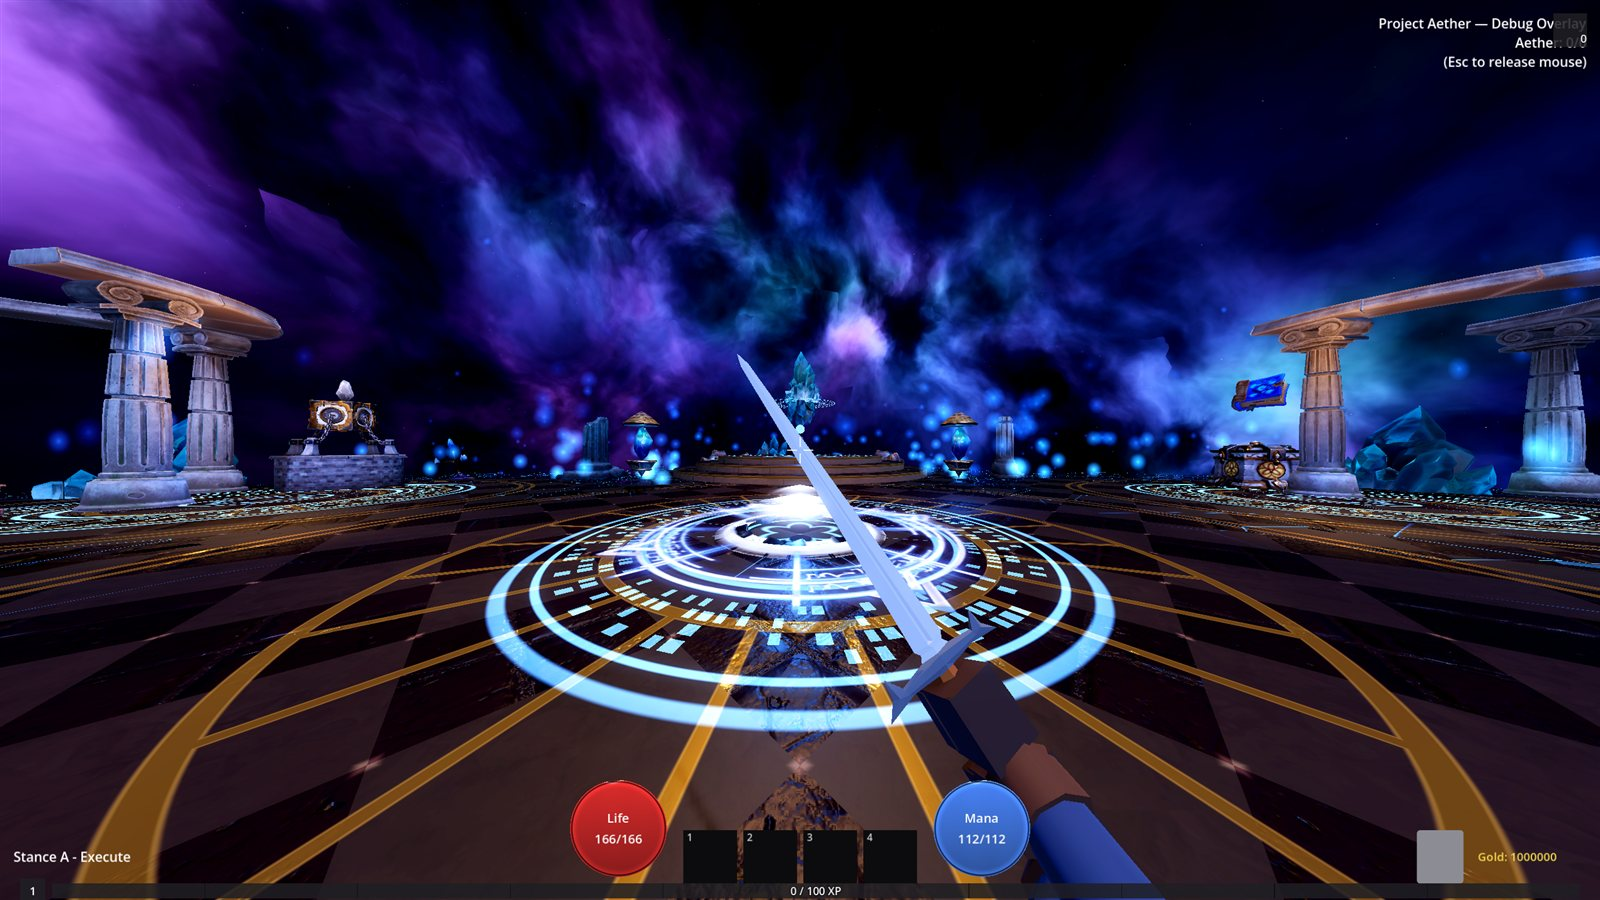
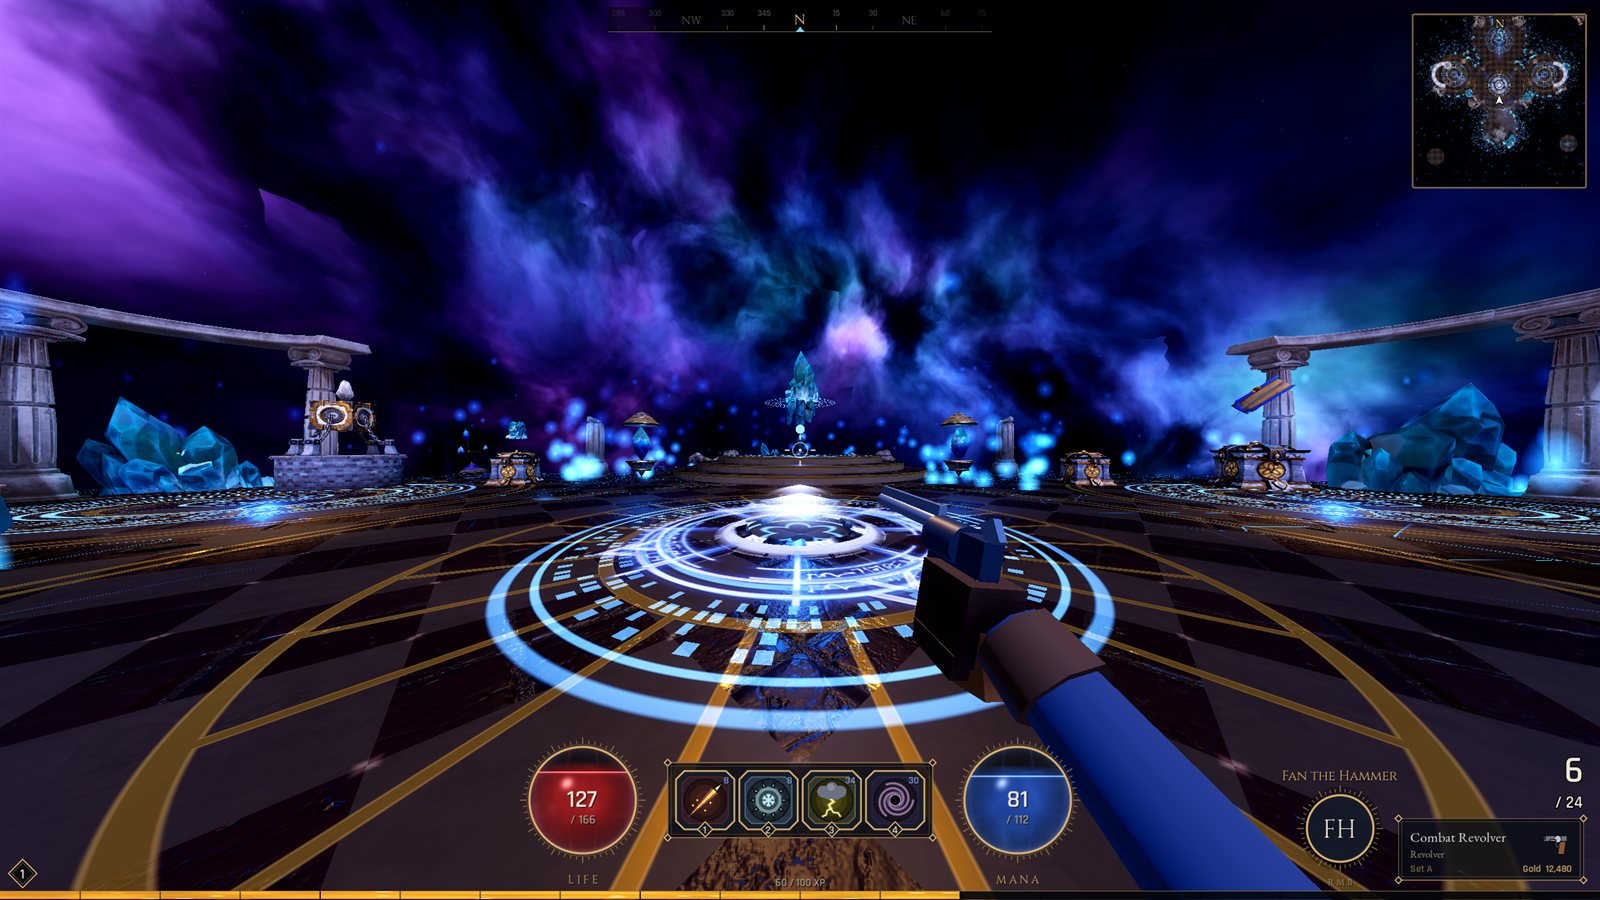
README: new screenshots, macOS download, current features
Six fresh in-engine captures (hub, Ascendant pack, Aurelia, City, forest,
inventory). The capture harnesses hide the debug overlay, take a
CAPTURE_WEAPON env var to hold a different weapon, and keep the player
alive for the rarity view.

diff --git a/README.md b/README.md
@@ -20,18 +20,28 @@ Grab the latest build from the [Releases page](https://github.com/bmdearing/Proj
 |---|---|---|
 | Windows 64-bit | `ProjectAether-<version>-windows.zip` | Unzip, run `ProjectAether.exe` |
 | Linux 64-bit | `ProjectAether-<version>-linux.tar.gz` | `tar -xzf` it, run `./ProjectAether.x86_64` |
+| macOS (Intel, and Apple Silicon) | `ProjectAether-<version>-macos.zip` | Unzip, right-click `Project Aether.app` > Open (the app is not notarized) |
 
-Each build is a single self-contained executable (about 530 MB to download).
+Each build is self-contained, with all assets inside.
+
+## Screenshots
+
+| | |
+|---|---|
+| ![An Ascendant pack in a dungeon Figment](docs/rarity.jpg) | ![Aurelia, the final boss, casting Fire Wall](docs/aurelia.jpg) |
+| ![A Steampunk City street](docs/city.jpg) | ![A forest river valley full of monsters](docs/forest.jpg) |
+| ![The inventory and character sheet](docs/inventory.jpg) | |
 
 ## Features
 
 - **Hub and Figments:** procedurally generated maps (dungeons, open fields, canyons and city streets in Dungeon, Desert, Snow, Forest and Steampunk City styles, each with its own layout), Vault rooms, portals home, and pinnacle bosses.
 - **Endgame mapping:** Figment tiers 1-21 in Low, Mid and High bands, three pools of monster and boss modifiers that pay back in Pack Size, Item Quantity and Item Rarity, and a Figment Tree, earned by first clears, that steers which areas, factions, monsters and rewards your Figments roll.
-- **Weighty first-person combat:** light, heavy and charged attacks; parry, riposte and counter hits; hit-stop; and weapon stances for every weapon family.
+- **Weighty first-person combat:** a three-hit melee combo with light, heavy and charged attacks; parry, riposte, counter hits and visceral finishers on staggered enemies; dash-cancels and quicksteps with i-frames; hit-stop and blood; and weapon stances for every weapon family.
 - **Every weapon feels different:** each weapon family has its own attack, recoil, reload and bow-draw animations, and casters get channelled stances.
 - **Ranged weapons:** magazines, reloading, fire modes and spread for pistols, rifles, shotguns, bows and crossbows.
+- **Verticality and secrets:** catch ledges and mantle up, climb raised rooms and staircases, and find hidden rooms behind cracked walls and in rock outcrops, some guarded by the Watcher and its bargains.
 - **Defense:** passive shield block, or an active raised-shield guard that spends Composure.
-- **Loot and builds:** rolled gear with affixes, a grid inventory and stash, crafting with orbs and stones, the Fate Board of Slates, and spells levelled with Crystallized Aether.
+- **Loot and builds:** rolled gear with tiered modifiers, Uniques and Mythics, jewels and sockets, a grid inventory and stash, vendor shops and a Currency Exchange, crafting with Orbs, Brands, Edicts and the Shard of Tharsis, the Fate Board of Slates and Lenses, and spells with their own skill webs.
 
 ## Controls
 
@@ -44,6 +54,7 @@ Each build is a single self-contained executable (about 530 MB to download).
 | Parry | F |
 | Spells (hold and release to aim targeted spells) | 1-4 |
 | Reload | R |
+| Gun bash (with a ranged weapon out) | V |
 | Swap weapon set (tap) / stance page (hold) | X |
 | Interact | E |
 | Portal to the Hub | T |
@@ -61,11 +72,12 @@ Every key can be rebound in Settings > Controls.
 2. Clone this repository and open `project.godot` in Godot.
 3. Press F5 to run. The main menu is `ui/main_menu/MainMenu.tscn`.
 
-To export, install the 4.7.1 export templates (Editor > Manage Export Templates), add Windows Desktop and Linux presets, then run:
+To export, install the 4.7.1 export templates (Editor > Manage Export Templates), add Windows Desktop, Linux and macOS presets, then run:
 
 ```
 godot --headless --export-release "Windows Desktop" builds/windows/ProjectAether.exe
 godot --headless --export-release "Linux" builds/linux/ProjectAether.x86_64
+godot --headless --export-release "macOS" builds/macos/ProjectAether-macos.zip
 ```
 
 ## Project layout
